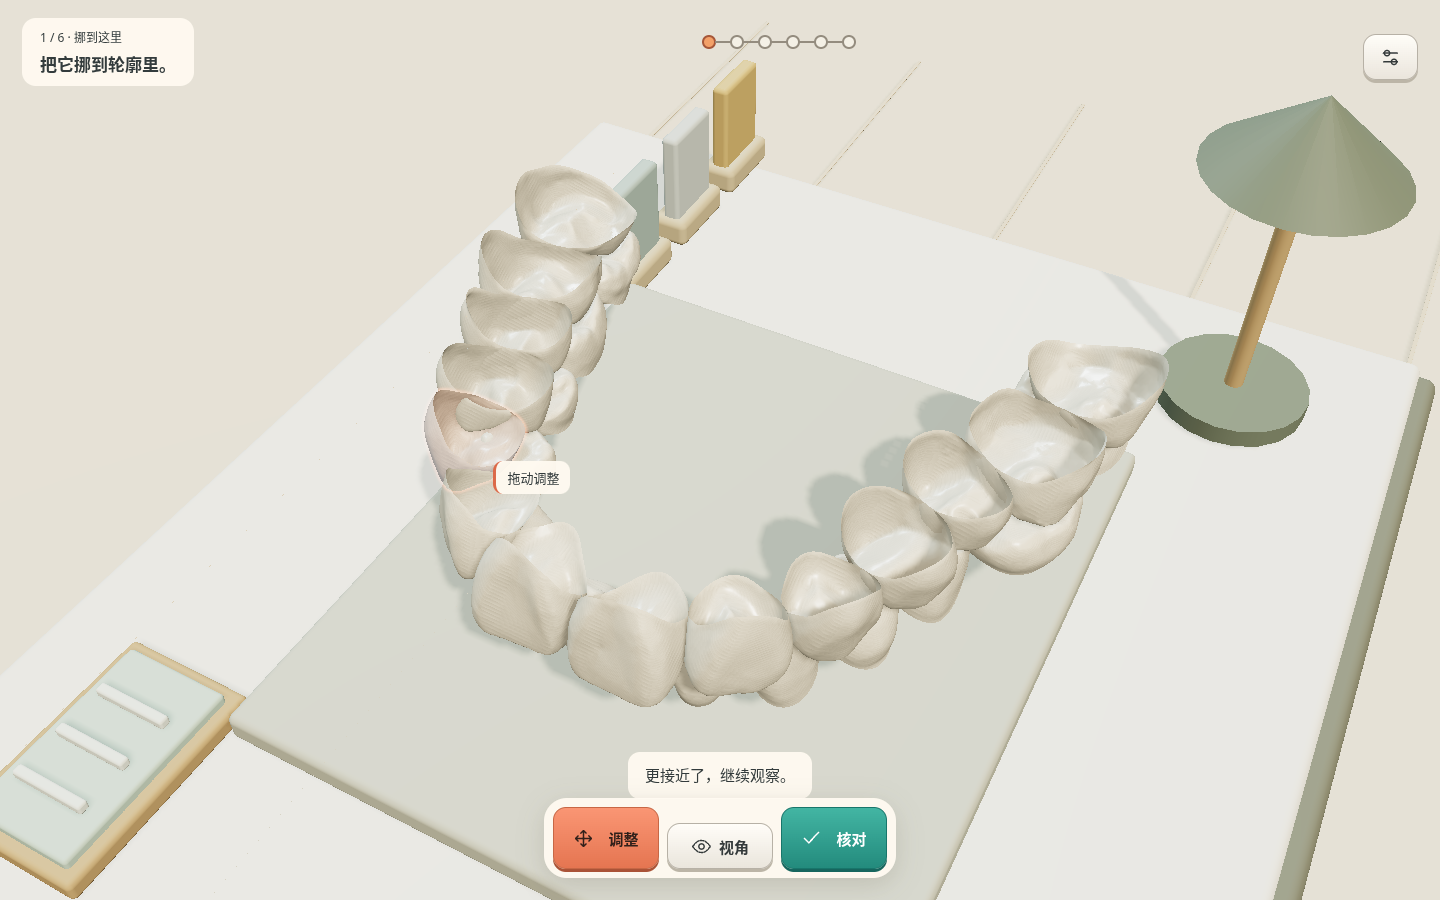
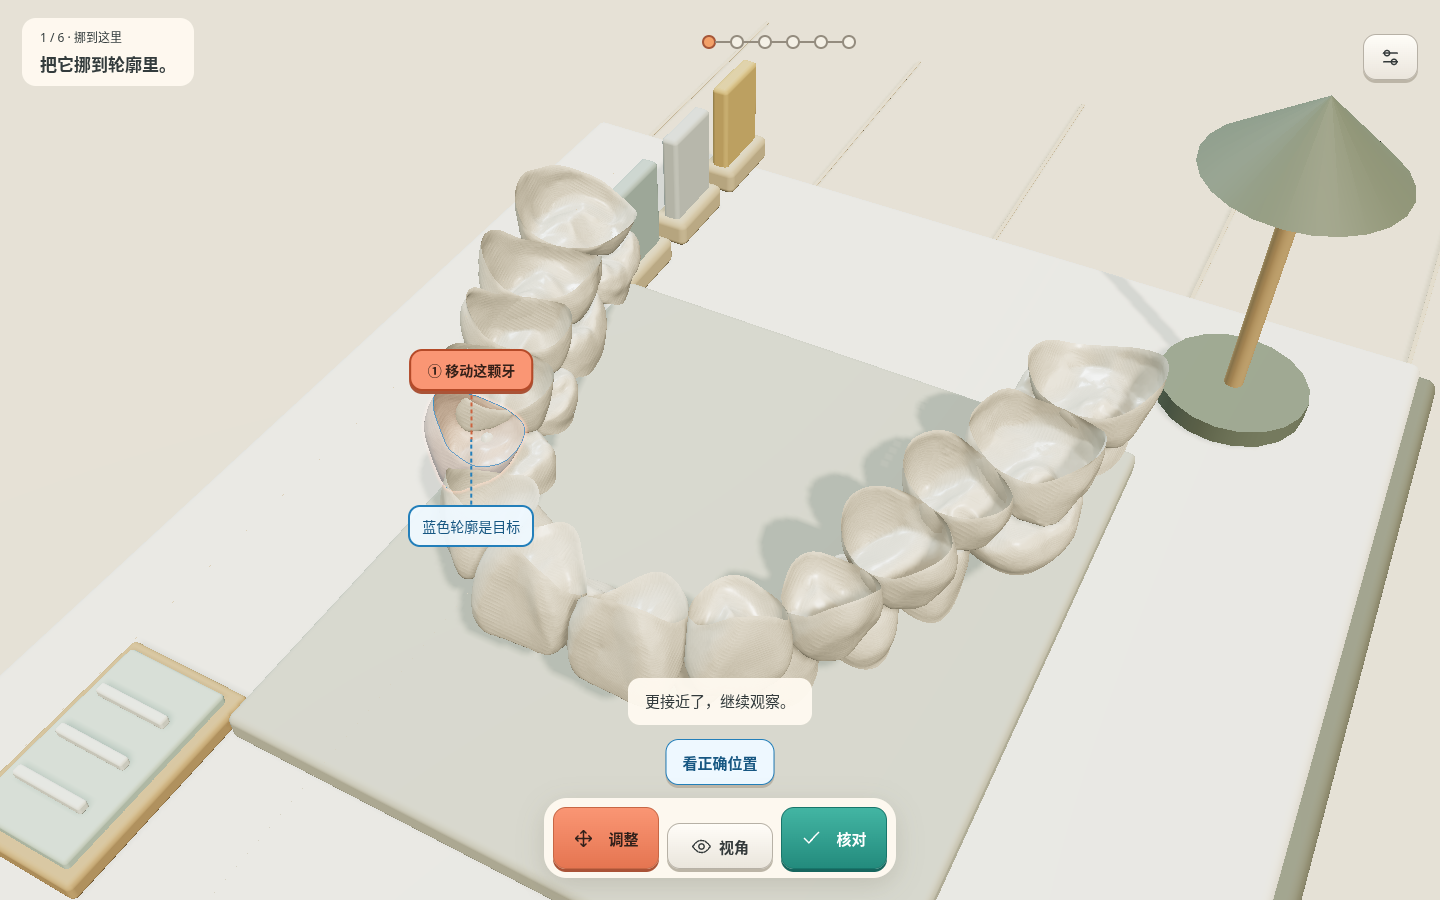
Make introductory task and target visible with guided depth-aware dragging

Changed region(s): [[0.4375, 0.7467, 0.5625, 0.9022], [0.2812, 0.4978, 0.4062, 0.6222], [0.2812, 0.3733, 0.375, 0.4667]]

diff --git a/chi-xu-workshop/src/course-workshop.ts b/chi-xu-workshop/src/course-workshop.ts
@@ -1,3 +1,11 @@
+import {
+  Vector3,
+  Group,
+  EdgesGeometry,
+  LineSegments,
+  LineBasicMaterial,
+  ArrowHelper,
+} from "three";
 import "./course-workshop.css";
 import { WorkshopScene } from "./scene";
 import { attachDirectDrag } from "./direct-drag";
@@ -51,7 +59,7 @@ export function mountPrediction(
     redo: CourseState[] = [];
   const b = (label: string, action: string, icon = action) =>
     `<button data-course="${action}">${uiIcon(icon)}<span>${label}</span></button>`;
-  app.innerHTML = `<main class="course-game"><header class="course-top"><div><small id="course-chapter"></small><strong id="course-prompt"></strong></div><nav class="course-nodes" aria-label="六关进度"></nav><details id="course-tools"><summary aria-label="工具">${uiIcon("settings")}</summary><div>${b("参考轮廓", "outline", "eye")}${b("看参考 / 回来", "reference", "eye")}${b("撤销", "undo")}${b("重做", "redo")}${b("找一下遗漏", "locate", "focus")}${b("回看操作", "replay")}${b("声音：关", "sound", "sound")}${b("减少动效", "motion", "settings")}${b("导出记录", "export")}${b("练习说明", "help", "task")}${b("回到首页", "exit")}</div></details></header><div id="course-viewport"></div><div id="course-region"></div><div id="course-label" hidden></div><div id="course-mode" hidden></div><div id="course-guess" hidden><strong>这里需要怎么处理？</strong>${b("只挪", "guess-translate", "move")}${b("只转", "guess-rotate", "rotate")}${b("两项", "guess-both", "adjust")}</div><p id="course-feedback" role="status"></p><div id="course-success" hidden><strong>Perfect!</strong><p></p>${b("继续", "next", "check")}</div><section id="course-adjust" hidden><div>${b("挪位置", "translate", "move")}${b("转方向", "rotate")}</div><details><summary>细一点</summary><label>沿 <select id="course-axis" aria-label="调整轴"><option>X</option><option>Y</option><option>Z</option></select> 轴</label><label><input type="checkbox" id="course-fine">细调</label><div>${b("反向", "minus", "undo")}${b("正向", "plus", "redo")}${b("撤销", "undo-step", "undo")}</div><div>${b("试一步", "trial", "eye")}${b("应用", "apply", "check")}${b("取消", "cancel")}</div><label><input type="checkbox" id="course-handles">轴向手柄</label></details></section><nav class="course-dock">${b("调整", "adjust", "move")}<details id="course-view"><summary>${uiIcon("eye")}<span>视角</span></summary><div>${b("整体看", "view-overview", "home")}${b("从上面看", "view-occlusal", "eye")}${b("换个角度", "view-front", "rotate")}${b("另一侧", "view-side", "rotate")}${b("放大观察", "focus")}${b("退远一点", "zoom", "zoom")}</div></details>${b("核对", "check")}</nav><section id="course-recap" hidden><strong>回看这一步</strong><p id="course-recap-text"></p><input type="range" id="course-timeline" min="0" value="0" aria-label="回看操作"><p>回放只看，不会改变进度。</p><div>${b("回到操作", "live", "cancel")}</div><section id="course-reflection" hidden><p>是什么帮你发现了遗漏？</p>${b("换角度", "reflect-view", "eye")}${b("核对反馈", "reflect-check", "check")}${b("前后对比", "reflect-compare", "replay")}<p>符合参考，就一定适合真实治疗吗？</p>${b("是", "boundary-yes", "check")}${b("不一定", "boundary-no", "eye")}<p id="course-boundary"></p>${b("跳过 / 完成", "exit", "exit")}</section></section><section id="course-help" hidden><strong>牙列空间观察与调整基础</strong><p>拖牙调整，拖空白转视角。G 挪、R 转，Esc 取消。精细调整里可以换轴、细调。</p><p>本章练习位置和朝向，不用于制定治疗方案。参考不是唯一的临床方案；核对不检查咬合、碰撞或移动安全。</p><p>轮廓和定位随时可用，不扣分。Perfect! 表示完成本关练习。</p>${b("开始动手", "close-help", "check")}</section></main>`;
+  app.innerHTML = `<main class="course-game"><header class="course-top"><div><small id="course-chapter"></small><strong id="course-prompt"></strong></div><nav class="course-nodes" aria-label="六关进度"></nav><details id="course-tools"><summary aria-label="工具">${uiIcon("settings")}</summary><div>${b("参考轮廓", "outline", "eye")}${b("看参考 / 回来", "reference", "eye")}${b("撤销", "undo")}${b("重做", "redo")}${b("找一下遗漏", "locate", "focus")}${b("回看操作", "replay")}${b("声音：关", "sound", "sound")}${b("减少动效", "motion", "settings")}${b("导出记录", "export")}${b("练习说明", "help", "task")}${b("回到首页", "exit")}</div></details></header><div id="course-viewport"></div><div id="course-region"></div><div id="course-guide" hidden><button data-course="pick-task" id="course-task-callout">移动这颗牙</button><span id="course-target-callout">蓝色轮廓是目标</span><svg aria-hidden="true"><path id="course-task-leader"/><path id="course-target-leader"/></svg><button data-course="target-peek" id="course-peek">看正确位置</button></div><div id="course-label" hidden></div><div id="course-mode" hidden></div><div id="course-guess" hidden><strong>这里需要怎么处理？</strong>${b("只挪", "guess-translate", "move")}${b("只转", "guess-rotate", "rotate")}${b("两项", "guess-both", "adjust")}</div><p id="course-feedback" role="status"></p><div id="course-success" hidden><strong>Perfect!</strong><p></p>${b("继续", "next", "check")}</div><section id="course-adjust" hidden><div>${b("挪位置", "translate", "move")}${b("转方向", "rotate")}</div><details><summary>细一点</summary><label>沿 <select id="course-axis" aria-label="调整轴"><option>X</option><option>Y</option><option>Z</option></select> 轴</label><label><input type="checkbox" id="course-fine">细调</label><div>${b("反向", "minus", "undo")}${b("正向", "plus", "redo")}${b("撤销", "undo-step", "undo")}</div><div>${b("试一步", "trial", "eye")}${b("应用", "apply", "check")}${b("取消", "cancel")}</div><label><input type="checkbox" id="course-handles">轴向手柄</label></details></section><nav class="course-dock">${b("调整", "adjust", "move")}<details id="course-view"><summary>${uiIcon("eye")}<span>视角</span></summary><div>${b("整体看", "view-overview", "home")}${b("从上面看", "view-occlusal", "eye")}${b("换个角度", "view-front", "rotate")}${b("另一侧", "view-side", "rotate")}${b("放大观察", "focus")}${b("退远一点", "zoom", "zoom")}</div></details>${b("核对", "check")}</nav><section id="course-recap" hidden><strong>回看这一步</strong><p id="course-recap-text"></p><input type="range" id="course-timeline" min="0" value="0" aria-label="回看操作"><p>回放只看，不会改变进度。</p><div>${b("回到操作", "live", "cancel")}</div><section id="course-reflection" hidden><p>是什么帮你发现了遗漏？</p>${b("换角度", "reflect-view", "eye")}${b("核对反馈", "reflect-check", "check")}${b("前后对比", "reflect-compare", "replay")}<p>符合参考，就一定适合真实治疗吗？</p>${b("是", "boundary-yes", "check")}${b("不一定", "boundary-no", "eye")}<p id="course-boundary"></p>${b("跳过 / 完成", "exit", "exit")}</section></section><section id="course-help" hidden><strong>牙列空间观察与调整基础</strong><p>拖牙调整，拖空白转视角。G 挪、R 转，Esc 取消。精细调整里可以换轴、细调。</p><p>本章练习位置和朝向，不用于制定治疗方案。参考不是唯一的临床方案；核对不检查咬合、碰撞或移动安全。</p><p>轮廓和定位随时可用，不扣分。Perfect! 表示完成本关练习。</p>${b("开始动手", "close-help", "check")}</section></main>`;
   document.body.classList.add("course-mode");
   const el = <T extends HTMLElement = HTMLElement>(q: string) =>
     app.querySelector<T>(q)!;
@@ -70,6 +78,106 @@ export function mountPrediction(
   }
   scene.outline.visibleEdgeColor.set("#e47953");
   scene.outline.hiddenEdgeColor.set("#e47953");
+  const targetGuide = new Group();
+  scene.scene.add(targetGuide);
+  const guideEdges = new Map<string, LineSegments>();
+  for (const id of ["6", "8"]) {
+    const edge = new LineSegments(
+      new EdgesGeometry(scene.teeth.get(id)!.geometry, 32),
+      new LineBasicMaterial({
+        color: "#237fba",
+        depthTest: false,
+        transparent: true,
+        opacity: 0.9,
+      }),
+    );
+    edge.renderOrder = 30;
+    edge.visible = false;
+    guideEdges.set(id, edge);
+    targetGuide.add(edge);
+  }
+  const goalArrow = new ArrowHelper(
+    new Vector3(1, 0, 0),
+    new Vector3(),
+    1,
+    "#237fba",
+    0.2,
+    0.1,
+  );
+  goalArrow.renderOrder = 31;
+  targetGuide.add(goalArrow);
+  goalArrow.traverse((o) => {
+    const m = (o as import("three").Mesh).material;
+    if (m && !Array.isArray(m)) m.depthTest = false;
+  });
+  function guidance() {
+    const visible =
+      state.stage < 2 && !state.completed && !success && !replay && !readonly;
+    el("#course-guide").hidden = !visible;
+    el("#course-guide svg").style.display = visible ? "" : "none";
+    for (const edge of guideEdges.values()) edge.visible = false;
+    goalArrow.visible = false;
+    el("#course-peek").textContent = readonly ? "回到操作" : "看正确位置";
+    // Read-only comparison has a direct return next to the model as well.
+    if (readonly && state.stage < 2 && !replay) {
+      el("#course-guide").hidden = false;
+      el("#course-task-callout").hidden = true;
+      el("#course-target-callout").hidden = true;
+      return;
+    }
+    el("#course-task-callout").hidden = !visible;
+    el("#course-target-callout").hidden = !visible;
+    if (!visible) return;
+    const id = lesson().ids[0],
+      target = data.target[id],
+      mesh = scene.teeth.get(id)!,
+      edge = guideEdges.get(id)!;
+    edge.position
+      .fromArray(target.pivot)
+      .add(new Vector3(...target.translation));
+    edge.quaternion.fromArray(target.quaternion);
+    edge.visible = true;
+    const remaining = edge.position.clone().sub(mesh.position),
+      length = remaining.length();
+    if (state.stage === 0 && length > 0.075) {
+      goalArrow.position.copy(mesh.position);
+      goalArrow.setDirection(remaining.normalize());
+      goalArrow.setLength(
+        length,
+        Math.min(length * 0.35, scene.size * 0.014),
+        Math.min(length * 0.18, scene.size * 0.007),
+      );
+      goalArrow.visible = true;
+    }
+    const current = scene.marker(id),
+      goal = scene.projectPoint(edge.position.toArray()),
+      w = scene.host.clientWidth,
+      h = scene.host.clientHeight;
+    if (!current?.visible || !goal.visible) {
+      el("#course-task-callout").style.left = "12px";
+      el("#course-task-callout").style.top = "125px";
+      el("#course-target-callout").hidden = true;
+      return;
+    }
+    const x = Math.max(100, Math.min(w - 100, current.x)),
+      y = Math.max(160, Math.min(h - 210, current.y));
+    const a = el("#course-task-callout"),
+      b = el("#course-target-callout");
+    a.style.left = `${x}px`;
+    a.style.top = `${y - 90}px`;
+    a.textContent = state.stage === 0 ? "① 移动这颗牙" : "① 转动这颗牙";
+    b.style.left = `${Math.max(100, Math.min(w - 100, goal.x))}px`;
+    b.style.top = `${Math.max(y + 55, Math.min(h - 165, goal.y + 65))}px`;
+    el("#course-task-leader").setAttribute(
+      "d",
+      `M ${x} ${y - 65} L ${current.x} ${current.y}`,
+    );
+    el("#course-target-leader").setAttribute(
+      "d",
+      `M ${Math.max(100, Math.min(w - 100, goal.x))} ${Math.max(y + 55, Math.min(h - 165, goal.y + 65))} L ${goal.x} ${goal.y}`,
+    );
+    scene.dirty = true;
+  }
   function fit() {
     scene.scene.updateMatrixWorld(true);
     scene.camera.updateMatrixWorld(true);
@@ -152,6 +260,7 @@ export function mountPrediction(
         : null,
     );
     ui();
+    guidance();
   }
   function ui() {
     el("#course-chapter").textContent =
@@ -246,6 +355,12 @@ export function mountPrediction(
   }
   function select(id: string) {
     if (readonly || replay || success) return;
+    if (state.stage < 2 && !candidate(id)) {
+      selected = lesson().ids[0];
+      feedback = "这颗先不用动。跟着橙色标记，蓝色轮廓就是目标。";
+      paint();
+      return;
+    }
     selected = id;
     feedback = candidate(id)
       ? state.stage === 3
@@ -267,6 +382,27 @@ export function mountPrediction(
   const direct = attachDirectDrag(scene, {
     select,
     canEdit: edit,
+    constrain: (id, before, pose, normal) => {
+      if (state.stage !== 0) return pose;
+      // Intro follows the remaining reference displacement, including resumed attempts; no snapping.
+      const direction = new Vector3(...data.target[id].translation).sub(
+        new Vector3(...before.translation),
+      );
+      const plane = direction
+        .clone()
+        .addScaledVector(normal, -direction.dot(normal));
+      if (plane.lengthSq() < 1e-10) return before;
+      const amount =
+        new Vector3(...pose.translation)
+          .sub(new Vector3(...before.translation))
+          .dot(plane) / plane.lengthSq();
+      return {
+        ...pose,
+        translation: new Vector3(...before.translation)
+          .addScaledVector(direction, amount)
+          .toArray(),
+      };
+    },
     tool: () => tool,
     fine: () => fine,
     preview: () => {
@@ -324,6 +460,13 @@ export function mountPrediction(
       feedback =
         state.stage === 3 ? "有一处还没做好，换个角度找找。" : "先选一颗看看。";
       ui();
+      return;
+    }
+    if (state.stage === 0) {
+      selected = lesson().ids[0];
+      outline = true;
+      feedback = "还没重合。沿蓝色箭头挪，或点“看正确位置”对照。";
+      paint();
       return;
     }
     const e = poseError(state.poses[selected], data.target[selected]);
@@ -394,10 +537,14 @@ export function mountPrediction(
     el<HTMLDetailsElement>("#course-view").open = false;
   }
   function click(event: MouseEvent) {
-    const a = (event.target as HTMLElement).closest<HTMLElement>(
-      "[data-course]",
-    )?.dataset.course;
+    let a = (event.target as HTMLElement).closest<HTMLElement>("[data-course]")
+      ?.dataset.course;
     if (!a) return;
+    if (a === "target-peek") a = "reference";
+    if (a === "pick-task") {
+      select(lesson().ids[0]);
+      return;
+    }
     closeMenus();
     if (a === "exit") {
       onExit();
@@ -643,6 +790,7 @@ export function mountPrediction(
   paint();
   if (state.completed) showReplay();
   const timer = setInterval(() => {
+    guidance();
     el("#course-region").innerHTML =
       state.stage >= 2 && !readonly && !replay
         ? lesson()
@@ -684,6 +832,12 @@ export function mountPrediction(
     app.removeEventListener("click", click);
     app.removeEventListener("change", change);
     app.removeEventListener("pointerdown", down);
+    for (const edge of guideEdges.values()) {
+      edge.geometry.dispose();
+      (edge.material as LineBasicMaterial).dispose();
+    }
+    targetGuide.removeFromParent();
+    goalArrow.dispose();
     scene.dispose();
     void audio?.close();
     document.body.classList.remove("course-mode");

diff --git a/chi-xu-workshop/src/course-workshop.css b/chi-xu-workshop/src/course-workshop.css
@@ -485,3 +485,70 @@ body.course-mode {
 .course-game nav {
   margin: 0;
 }
+#course-guide {
+  position: absolute;
+  inset: 0;
+  z-index: 4;
+  pointer-events: none;
+}
+#course-guide svg {
+  position: absolute;
+  inset: 0;
+  width: 100%;
+  height: 100%;
+  overflow: visible;
+  pointer-events: none;
+}
+#course-guide path {
+  fill: none;
+  stroke-width: 2;
+  stroke-dasharray: 4 3;
+}
+#course-task-leader {
+  stroke: #cc633f;
+}
+#course-target-leader {
+  stroke: #237fba;
+}
+#course-task-callout,
+#course-target-callout {
+  position: absolute;
+  transform: translateX(-50%);
+  z-index: 1;
+  white-space: nowrap;
+  min-height: 36px;
+  font-size: 14px;
+}
+#course-task-callout {
+  pointer-events: auto;
+  background: #fa9674;
+  border: 2px solid #b54a28;
+  color: #352018;
+  box-shadow: 0 3px 0 #aa5337;
+}
+#course-target-callout {
+  padding: 9px 12px;
+  background: #eff9ffef;
+  border: 2px solid #237fba;
+  border-radius: 12px;
+  color: #175782;
+}
+#course-peek {
+  position: absolute;
+  left: 50%;
+  bottom: 115px;
+  transform: translateX(-50%);
+  pointer-events: auto;
+  background: #eef8ff;
+  color: #175782;
+  border-color: #237fba;
+}
+#course-guide:not([hidden]) ~ #course-feedback {
+  bottom: 175px;
+}
+#course-guide:not([hidden]) ~ #course-label {
+  display: none;
+}
+#course-guide:not([hidden]) ~ #course-mode {
+  top: 105px;
+}

diff --git a/chi-xu-workshop/src/direct-drag.ts b/chi-xu-workshop/src/direct-drag.ts
@@ -9,6 +9,7 @@ export function attachDirectDrag(
     canEdit: () => boolean;
     tool: () => Tool;
     fine: () => boolean;
+    constrain?: (id: string, before: Pose, pose: Pose, normal: Vector3) => Pose;
     preview: (id: string, pose: Pose) => void;
     commit: (id: string, before: Pose, after: Pose) => void;
     cancel: () => void;
@@ -101,9 +102,10 @@ export function attachDirectDrag(
         .normalize()
         .toArray();
     }
-    active.after = p;
-    scene.apply({ [a.id]: p });
-    options.preview(a.id, p);
+    const after = options.constrain?.(a.id, a.before, p, a.normal) ?? p;
+    active.after = after;
+    scene.apply({ [a.id]: after });
+    options.preview(a.id, after);
     e.preventDefault();
     e.stopImmediatePropagation();
   }

diff --git a/chi-xu-workshop/docs/SPATIAL_COURSE.md b/chi-xu-workshop/docs/SPATIAL_COURSE.md
@@ -17,7 +17,7 @@
 
 - 新首页主入口“开始/继续基础挑战”；课程主视区全屏，顶部一行目标和六节点，底部调整/视角/核对。
 - 暖白桌面与原牙色保留；珊瑚橙表示操作，蓝色轮廓辅助，青绿色完成反馈。禁用、按压、焦点、预览、参考和回放状态均区分。真实模型不依据AI图重建。
-- 鼠标/触摸直接拖动：屏幕平面平移或绕视线旋转。精细栏可用XYZ手柄、粗细步进（0.25/0.05u、2/0.5°）、长按、试步、撤销重做。复杂三维分量可用轴向工具完成，不声称屏幕平面可完成任意三维位姿。
+- 鼠标/触摸直接拖动：第一关沿当前剩余参考方向进行引导平移（可过头，不吸附），其余关卡屏幕平面平移或绕视线旋转。精细栏可用XYZ手柄、粗细步进（0.25/0.05u、2/0.5°）、长按、试步、撤销重做。复杂三维分量可用轴向工具完成，不声称屏幕平面可完成任意三维位姿。
 - 前两关常显局部参考，后续按需打开；不强制切视角、操作次数或填写自评。
 - 偏差反馈分别描述位置/方向，以及是否误动原正确分量。求助/误判/撤销不扣分，不使用匹配分评价学习。
 - 所有候选使用同样的局部编号，不预示哪颗有错；候选外不允许修改。
@@ -35,3 +35,6 @@
 ## 验证
 
 单元测试验证六关连续推进、正确牙不动、错例直接接手、工具限制、预判可修正以及坏记录拒绝。浏览器通过实际按钮验证第一关推进、第四关真实拖动/取消/撤销、只读参考/回放、手机整体核对/求助与布局、完成反馈和续玩。后关浏览器使用经纯函数验证的前关存档夹具，不冒称浏览器完整人工通关六关。旧九任务浏览器回归仍执行。
+
+## 入门可见性补充
+前两关常显任务标记、蓝色实际目标边线与直接看正确位置入口。点错非任务牙保留任务选择；第一关核对失败重显目标与移动方向。查看参考只读，直接返回操作无需进工具菜单。该帮助不应用于找错与独立复核关。

diff --git a/chi-xu-workshop/docs/VALIDATION.md b/chi-xu-workshop/docs/VALIDATION.md
@@ -1,3 +1,11 @@
+## 2026-10-27 入门任务与目标指引修复
+
+用户实机反馈第一关不知道移动哪颗、看不到正确位置。前两关增加常显橙色任务指示、带文字的蓝色目标线框（原网格的显示边线）、局部引线及直接“看正确位置/回到操作”。蓝色边线不被普通牙遮挡，不改变网格。前两关点错牙不清除任务选择；其余找错关仍自主选择，不提前揭示答案。第一关核对未通过时恢复轮廓并提示剩余移动方向。
+
+同时修复第一关屏幕平面拖动难以消除深度差的问题：入门拖动将屏幕位移投影到当前牙至参考的剩余平移向量，可前进、后退、过头，不吸附、不改容差。每次拖动重新依据当前实际位置计算，已偏离的旧进度仍能修正。精细轴操作继续保留；其余关卡与旧模式不应用该限制。新增直接拖动可选约束回调，默认行为保持不变。
+
+92 项单元检查与构建通过。4 个相关浏览器用例分轮检查：原模式直接拖牙/取消/提交回归，第一关按钮完成并连续进入第二关，新任务标记/真实目标线存在/点错保留任务/只读看目标/手机可达，以及偏离旧进度后的真实拖动方向、预览不写入、非任务牙与朝向不变、无吸附。桌面与手机 course-guidance*.png 已实机截图并目视检查。Windows 本机更新未在云端执行。
+
 ## 2026-10-27 Windows 解压文件占用修复
 
 旧更新器 .NET 整包解压连续在文档 PNG 上遇到文件占用，四次整体重试均失败，旧游戏未替换。Windows 路径现改为 Node 内置 ZIP 提取：只读取工程文件，跳过 docs（截图、视频）、tests 及工程外原网站；校验普通 ZIP 目录、范围、解压长度、CRC 和安全路径。仅使用 Node 内置能力，不引入安装依赖。
